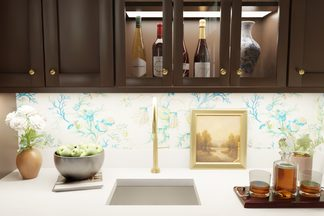
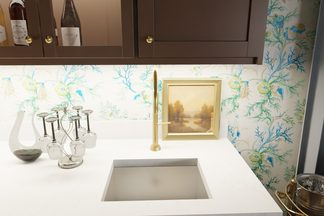
VB living room tour: bar uppers run full length, sink by the bar cart, new full bar view
- Bar upper cabinets now continue along the side wall to the curtain and up to
  the ceiling (glass doors plus a solid end door); sink and faucet moved to the
  return by the bar cart, landscape art beside the faucet
- Fireplace mantel and surround rebuilt from the site photo
- Piano Side 360 re-rendered from the new spot by the arch (white console and
  stools in view); default view opens on the console
- All 11 photos re-rendered, new photo 08C (full bar from the living room)
- Photo hotspots re-spaced for the new spot, cache-buster v6

Claude-Session: https://claude.ai/code/session_01JTGAP4tyzELrcwziHm6EGG

diff --git a/vb-living-room/tour.js b/vb-living-room/tour.js
@@ -1,1 +1,1 @@
-window.TOUR = {"project": "Virginia Beach \u00b7 Living Room", "default_node": "piano", "default_floor": "main", "default_doors": "closed", "floors": {"main": "Hardwood with rug"}, "doors": {"closed": "Closed"}, "client": {"name": "Maureen Stevens Design", "url": "https://www.maureenstevens.com/"}, "times": ["day"], "nodes": [{"id": "piano", "label": "Piano Side", "view": {"yaw": 83.4, "pitch": -18.6, "hfov": 104}, "views": [{"id": "piano", "label": "Piano & art", "short": "Piano", "yaw": -28.9, "pitch": -7.7, "hfov": 102}, {"id": "seating", "label": "Seating area", "short": "Seating", "yaw": 83.4, "pitch": -18.6, "hfov": 104}, {"id": "fireplace", "label": "Fireplace", "short": "Fireplace", "yaw": 121.5, "pitch": -3.3, "hfov": 92}, {"id": "bar", "label": "Bar", "short": "Bar", "yaw": 45.7, "pitch": -0.5, "hfov": 92}], "links": [{"to": "fireplace", "label": "Go to Fireplace Side", "yaw": 90.3, "pitch": -21.6}], "appliances": [], "panos": {"floor-main__doors-closed": {"full": "pano_piano.jpg?v=5", "mobile": "pano_piano_m.jpg?v=5"}}, "photos": [{"still": "01_West", "yaw": 148.5, "pitch": -29.1, "label": "West View"}, {"still": "02_Fireplace", "yaw": 121.4, "pitch": -8.2, "label": "Fireplace Wall"}, {"still": "03_North", "yaw": 39.4, "pitch": -1.9, "label": "North View"}, {"still": "05_Fireplace_Close", "yaw": 118.8, "pitch": 1.1, "label": "Fireplace Close-up"}, {"still": "06_WhiteConsole", "yaw": -173.7, "pitch": -23.8, "label": "White Console"}, {"still": "11_ConsoleStools", "yaw": 180.0, "pitch": -43.2, "label": "White Console & Stools"}, {"still": "07_OsloConsole", "yaw": 58.1, "pitch": -8.8, "label": "Oslo Console"}, {"still": "08_Bar", "yaw": 43.1, "pitch": 0.6, "label": "Bar"}, {"still": "08B_BarSink", "yaw": 42.0, "pitch": -4.4, "label": "Bar Sink & Art"}, {"still": "09_BarCart", "yaw": 64.0, "pitch": -10.8, "label": "Bar Cart"}, {"still": "10_Piano", "yaw": -27.3, "pitch": 1.1, "label": "Piano Corner"}]}, {"id": "fireplace", "label": "Fireplace Side", "view": {"yaw": 166.6, "pitch": -7.2, "hfov": 92}, "views": [{"id": "fireplace", "label": "Fireplace", "short": "Fireplace", "yaw": 166.6, "pitch": -7.2, "hfov": 92}, {"id": "bar", "label": "Bar", "short": "Bar", "yaw": 5.4, "pitch": -0.7, "hfov": 92}, {"id": "seating", "label": "Seating & piano", "short": "Seating", "yaw": -79.6, "pitch": -12.8, "hfov": 106}, {"id": "windows", "label": "Garden doors", "short": "Doors", "yaw": 76.1, "pitch": -8.0, "hfov": 100}], "links": [{"to": "piano", "label": "Go to Piano Side", "yaw": -89.7, "pitch": -21.6}], "appliances": [], "panos": {"floor-main__doors-closed": {"full": "pano_fireplace.jpg?v=5", "mobile": "pano_fireplace_m.jpg?v=5"}}, "photos": [{"still": "01_West", "yaw": -111.7, "pitch": -13.7, "label": "West View"}, {"still": "02_Fireplace", "yaw": 166.4, "pitch": -15.1, "label": "Fireplace Wall"}, {"still": "03_North", "yaw": -24.7, "pitch": -2.2, "label": "North View"}, {"still": "05_Fireplace_Close", "yaw": 165.0, "pitch": 2.3, "label": "Fireplace Close-up"}, {"still": "06_WhiteConsole", "yaw": -107.1, "pitch": -7.5, "label": "White Console"}, {"still": "11_ConsoleStools", "yaw": -107.7, "pitch": -16.1, "label": "White Console & Stools"}, {"still": "07_OsloConsole", "yaw": -23.1, "pitch": -15.0, "label": "Oslo Console"}, {"still": "08_Bar", "yaw": 6.2, "pitch": 0.8, "label": "Bar"}, {"still": "08B_BarSink", "yaw": 6.6, "pitch": -5.9, "label": "Bar Sink & Art"}, {"still": "09_BarCart", "yaw": 24.3, "pitch": -21.5, "label": "Bar Cart"}, {"still": "10_Piano", "yaw": -64.9, "pitch": 0.5, "label": "Piano Corner"}]}], "stills": [{"id": "day_01_West", "time": "day", "caption": "West View", "src": "still_01_West.jpg?v=5", "thumb": "thumb_01_West.jpg?v=5", "w": 1920, "h": 1080, "version": "orig", "cam": "01_West"}, {"id": "day_02_Fireplace", "time": "day", "caption": "Fireplace Wall", "src": "still_02_Fireplace.jpg?v=5", "thumb": "thumb_02_Fireplace.jpg?v=5", "w": 1920, "h": 1080, "version": "orig", "cam": "02_Fireplace"}, {"id": "day_03_North", "time": "day", "caption": "North View", "src": "still_03_North.jpg?v=5", "thumb": "thumb_03_North.jpg?v=5", "w": 1920, "h": 1080, "version": "orig", "cam": "03_North"}, {"id": "day_05_Fireplace_Close", "time": "day", "caption": "Fireplace Close-up", "src": "still_05_Fireplace_Close.jpg?v=5", "thumb": "thumb_05_Fireplace_Close.jpg?v=5", "w": 1920, "h": 1080, "version": "orig", "cam": "05_Fireplace_Close"}, {"id": "day_06_WhiteConsole", "time": "day", "caption": "White Console", "src": "still_06_WhiteConsole.jpg?v=5", "thumb": "thumb_06_WhiteConsole.jpg?v=5", "w": 1920, "h": 1080, "version": "orig", "cam": "06_WhiteConsole"}, {"id": "day_11_ConsoleStools", "time": "day", "caption": "White Console & Stools", "src": "still_11_ConsoleStools.jpg?v=5", "thumb": "thumb_11_ConsoleStools.jpg?v=5", "w": 1920, "h": 1080, "version": "orig", "cam": "11_ConsoleStools"}, {"id": "day_07_OsloConsole", "time": "day", "caption": "Oslo Console", "src": "still_07_OsloConsole.jpg?v=5", "thumb": "thumb_07_OsloConsole.jpg?v=5", "w": 1920, "h": 1080, "version": "orig", "cam": "07_OsloConsole"}, {"id": "day_08_Bar", "time": "day", "caption": "Bar", "src": "still_08_Bar.jpg?v=5", "thumb": "thumb_08_Bar.jpg?v=5", "w": 1920, "h": 1080, "version": "orig", "cam": "08_Bar"}, {"id": "day_08B_BarSink", "time": "day", "caption": "Bar Sink & Art", "src": "still_08B_BarSink.jpg?v=5", "thumb": "thumb_08B_BarSink.jpg?v=5", "w": 1920, "h": 1080, "version": "orig", "cam": "08B_BarSink"}, {"id": "day_09_BarCart", "time": "day", "caption": "Bar Cart", "src": "still_09_BarCart.jpg?v=5", "thumb": "thumb_09_BarCart.jpg?v=5", "w": 1920, "h": 1080, "version": "orig", "cam": "09_BarCart"}, {"id": "day_10_Piano", "time": "day", "caption": "Piano Corner", "src": "still_10_Piano.jpg?v=5", "thumb": "thumb_10_Piano.jpg?v=5", "w": 1920, "h": 1080, "version": "orig", "cam": "10_Piano"}]};
+window.TOUR = {"project": "Virginia Beach \u00b7 Living Room", "default_node": "piano", "default_floor": "main", "default_doors": "closed", "floors": {"main": "Hardwood with rug"}, "doors": {"closed": "Closed"}, "client": {"name": "Maureen Stevens Design", "url": "https://www.maureenstevens.com/"}, "times": ["day"], "nodes": [{"id": "piano", "label": "Piano Side", "view": {"yaw": 76.2, "pitch": -17.4, "hfov": 104}, "views": [{"id": "piano", "label": "Piano & art", "short": "Piano", "yaw": 3.6, "pitch": -4.9, "hfov": 102}, {"id": "console", "label": "White console & stools", "short": "Console", "yaw": 76.2, "pitch": -17.4, "hfov": 104}, {"id": "seating", "label": "Seating area", "short": "Seating", "yaw": 65.9, "pitch": -12.0, "hfov": 104}, {"id": "fireplace", "label": "Fireplace", "short": "Fireplace", "yaw": 101.9, "pitch": -2.9, "hfov": 92}, {"id": "bar", "label": "Bar", "short": "Bar", "yaw": 44.4, "pitch": -0.4, "hfov": 92}], "links": [{"to": "fireplace", "label": "Go to Fireplace Side", "yaw": 73.6, "pitch": -15.8}], "appliances": [], "panos": {"floor-main__doors-closed": {"full": "pano_piano.jpg?v=6", "mobile": "pano_piano_m.jpg?v=6"}}, "photos": [{"still": "01_West", "yaw": 82.0, "pitch": -21.2, "label": "West View"}, {"still": "02_Fireplace", "yaw": 101.8, "pitch": -7.3, "label": "Fireplace Wall"}, {"still": "03_North", "yaw": 29.7, "pitch": 8.5, "label": "North View"}, {"still": "05_Fireplace_Close", "yaw": 99.2, "pitch": 1.0, "label": "Fireplace Close-up"}, {"still": "06_WhiteConsole", "yaw": 76.2, "pitch": -24.4, "label": "White Console"}, {"still": "11_ConsoleStools", "yaw": 77.6, "pitch": -40.9, "label": "White Console & Stools"}, {"still": "07_OsloConsole", "yaw": 51.8, "pitch": -10.4, "label": "Oslo Console"}, {"still": "08_Bar", "yaw": 42.5, "pitch": 0.5, "label": "Bar"}, {"still": "08B_BarSink", "yaw": 53.5, "pitch": -2.9, "label": "Bar Sink & Art"}, {"still": "08C_BarFull", "yaw": 48.9, "pitch": 8.8, "label": "Full Bar View"}, {"still": "09_BarCart", "yaw": 57.8, "pitch": -8.1, "label": "Bar Cart"}, {"still": "10_Piano", "yaw": 1.4, "pitch": 0.7, "label": "Piano Corner"}]}, {"id": "fireplace", "label": "Fireplace Side", "view": {"yaw": 166.6, "pitch": -7.2, "hfov": 92}, "views": [{"id": "fireplace", "label": "Fireplace", "short": "Fireplace", "yaw": 166.6, "pitch": -7.2, "hfov": 92}, {"id": "bar", "label": "Bar", "short": "Bar", "yaw": 5.4, "pitch": -0.7, "hfov": 92}, {"id": "seating", "label": "Seating & piano", "short": "Seating", "yaw": -79.6, "pitch": -12.8, "hfov": 106}, {"id": "windows", "label": "Garden doors", "short": "Doors", "yaw": 76.1, "pitch": -8.0, "hfov": 100}], "links": [{"to": "piano", "label": "Go to Piano Side", "yaw": -106.4, "pitch": -15.8}], "appliances": [], "panos": {"floor-main__doors-closed": {"full": "pano_fireplace.jpg?v=6", "mobile": "pano_fireplace_m.jpg?v=6"}}, "photos": [{"still": "01_West", "yaw": -111.7, "pitch": -13.7, "label": "West View"}, {"still": "02_Fireplace", "yaw": 166.4, "pitch": -15.1, "label": "Fireplace Wall"}, {"still": "03_North", "yaw": -42.6, "pitch": 11.0, "label": "North View"}, {"still": "05_Fireplace_Close", "yaw": 165.0, "pitch": 2.3, "label": "Fireplace Close-up"}, {"still": "06_WhiteConsole", "yaw": -107.1, "pitch": -7.5, "label": "White Console"}, {"still": "11_ConsoleStools", "yaw": -107.7, "pitch": -16.1, "label": "White Console & Stools"}, {"still": "07_OsloConsole", "yaw": -23.1, "pitch": -26.1, "label": "Oslo Console"}, {"still": "08_Bar", "yaw": 6.2, "pitch": 0.8, "label": "Bar"}, {"still": "08B_BarSink", "yaw": 21.8, "pitch": -6.6, "label": "Bar Sink & Art"}, {"still": "08C_BarFull", "yaw": 15.1, "pitch": 17.4, "label": "Full Bar View"}, {"still": "09_BarCart", "yaw": 24.3, "pitch": -21.5, "label": "Bar Cart"}, {"still": "10_Piano", "yaw": -64.9, "pitch": 0.5, "label": "Piano Corner"}]}], "stills": [{"id": "day_01_West", "time": "day", "caption": "West View", "src": "still_01_West.jpg?v=6", "thumb": "thumb_01_West.jpg?v=6", "w": 1920, "h": 1080, "version": "orig", "cam": "01_West"}, {"id": "day_02_Fireplace", "time": "day", "caption": "Fireplace Wall", "src": "still_02_Fireplace.jpg?v=6", "thumb": "thumb_02_Fireplace.jpg?v=6", "w": 1920, "h": 1080, "version": "orig", "cam": "02_Fireplace"}, {"id": "day_03_North", "time": "day", "caption": "North View", "src": "still_03_North.jpg?v=6", "thumb": "thumb_03_North.jpg?v=6", "w": 1920, "h": 1080, "version": "orig", "cam": "03_North"}, {"id": "day_05_Fireplace_Close", "time": "day", "caption": "Fireplace Close-up", "src": "still_05_Fireplace_Close.jpg?v=6", "thumb": "thumb_05_Fireplace_Close.jpg?v=6", "w": 1920, "h": 1080, "version": "orig", "cam": "05_Fireplace_Close"}, {"id": "day_06_WhiteConsole", "time": "day", "caption": "White Console", "src": "still_06_WhiteConsole.jpg?v=6", "thumb": "thumb_06_WhiteConsole.jpg?v=6", "w": 1920, "h": 1080, "version": "orig", "cam": "06_WhiteConsole"}, {"id": "day_11_ConsoleStools", "time": "day", "caption": "White Console & Stools", "src": "still_11_ConsoleStools.jpg?v=6", "thumb": "thumb_11_ConsoleStools.jpg?v=6", "w": 1920, "h": 1080, "version": "orig", "cam": "11_ConsoleStools"}, {"id": "day_07_OsloConsole", "time": "day", "caption": "Oslo Console", "src": "still_07_OsloConsole.jpg?v=6", "thumb": "thumb_07_OsloConsole.jpg?v=6", "w": 1920, "h": 1080, "version": "orig", "cam": "07_OsloConsole"}, {"id": "day_08_Bar", "time": "day", "caption": "Bar", "src": "still_08_Bar.jpg?v=6", "thumb": "thumb_08_Bar.jpg?v=6", "w": 1920, "h": 1080, "version": "orig", "cam": "08_Bar"}, {"id": "day_08B_BarSink", "time": "day", "caption": "Bar Sink & Art", "src": "still_08B_BarSink.jpg?v=6", "thumb": "thumb_08B_BarSink.jpg?v=6", "w": 1920, "h": 1080, "version": "orig", "cam": "08B_BarSink"}, {"id": "day_08C_BarFull", "time": "day", "caption": "Full Bar View", "src": "still_08C_BarFull.jpg?v=6", "thumb": "thumb_08C_BarFull.jpg?v=6", "w": 1920, "h": 1080, "version": "orig", "cam": "08C_BarFull"}, {"id": "day_09_BarCart", "time": "day", "caption": "Bar Cart", "src": "still_09_BarCart.jpg?v=6", "thumb": "thumb_09_BarCart.jpg?v=6", "w": 1920, "h": 1080, "version": "orig", "cam": "09_BarCart"}, {"id": "day_10_Piano", "time": "day", "caption": "Piano Corner", "src": "still_10_Piano.jpg?v=6", "thumb": "thumb_10_Piano.jpg?v=6", "w": 1920, "h": 1080, "version": "orig", "cam": "10_Piano"}]};

diff --git a/vb-living-room/README.md b/vb-living-room/README.md
@@ -6,19 +6,20 @@ Live: https://ms3dstudio.github.io/3d-previews/vb-living-room/
 
 | File | What it is |
 |---|---|
-| `index.html` | Viewer page (Pannellum 2.5.6), same UI as the 629 Burdette kitchen tour, plus a Brightness / Contrast panel (Adjust) |
+| `index.html` | Viewer page (Pannellum 2.5.6), same UI as the 629 Burdette kitchen tour, plus an Adjust panel (brightness, contrast, clarity, texture) |
 | `tour.js` / `tour.json` | Tour data: the two spots, their views, the circle that moves between them, photo hotspots, gallery captions |
-| `pano_piano.jpg` | Piano Side spot (north end of the large sofa), 6000×3000 equirectangular |
+| `pano_piano.jpg` | Piano Side spot (by the sunroom arch, facing the piano, with the white console and stools in view), 6000×3000 equirectangular |
 | `pano_fireplace.jpg` | Fireplace Side spot (between the coffee table and the swivel chair), 6000×3000 |
 | `*_m.jpg` | 4096×2048 copies for phones and low-memory GPUs |
-| `still_*.jpg` / `thumb_*.jpg` | Gallery photos (the 9 v4 renders) and thumbnails |
+| `still_*.jpg` / `thumb_*.jpg` | Gallery photos (the 11 v6 renders) and thumbnails |
 | `og.jpg` | Link preview image |
 | `logo.webp` | Maureen Stevens Design logo (links to maureenstevens.com) |
 
 Both panoramas face north at the centre (yaw 0 = north wall, 90 = east windows, 180 = south).
-Adjust (top right) changes brightness and contrast of the 360 and the photos. A link can carry a setting, for example `?b=115&c=105`.
+Adjust (top right) sets brightness (lifts the scene without clipping highlights), contrast, clarity and texture for the 360 and the photos. A link can carry a setting, for example `?br=20&ct=10&cl=40&tx=30`.
 To replace a panorama with a colour-graded version, overwrite both of its files with the same names.
 
 ## Updates
 
 - 11/09: raised hearth and new fireplace styling (both 360s re-rendered), new photos 11 (white console with stools) and 08B (bar sink and art).
+- 11/09 (round 2): bar upper cabinets now run the full side wall to the curtain and up to the ceiling (glass doors plus a solid end door), sink and faucet moved to the bar-cart side with the landscape art beside it, fireplace mantel and surround rebuilt from the site photo, Piano Side 360 moved to the arch so the white console and stools are in view; all 11 photos and both 360s re-rendered.
